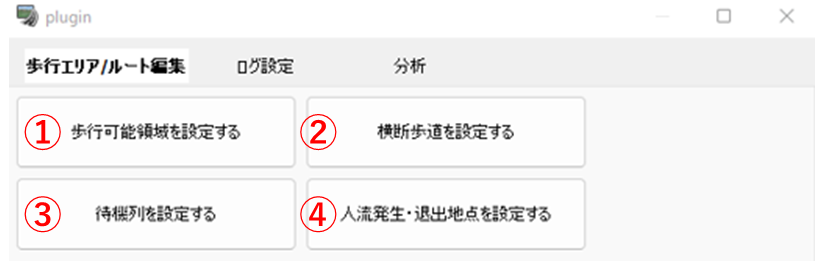
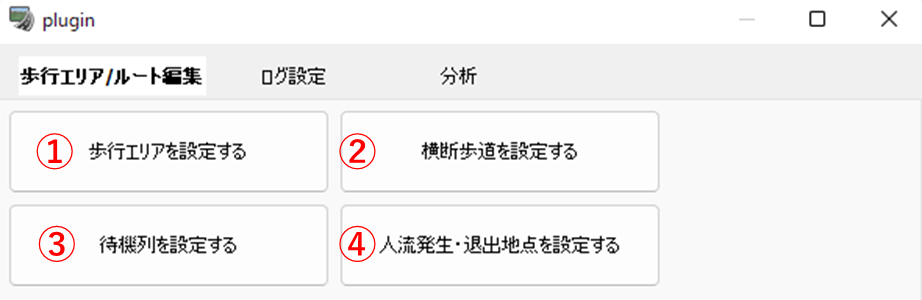
Update Githubpages

diff --git a/manual/userMan.html b/manual/userMan.html
@@ -118,9 +118,9 @@
 <p><img src="../resources/userMan/CrowdSimulator.png" alt=""></p>
 <h2 id="2-3-1-人流シミュレーション設定画面">2-3-1 人流シミュレーション設定画面</h2>
 <p>人流シミュレーションの条件設定を行う画面です。</p>
-<p>① 歩行可能領域を設定する</p>
-<p>シミュレーションでの歩行可能領域に関する設定を行う場合、このボタンをクリックすると<a href="#2-3-2-%E5%9C%B0%E5%9F%9F%E8%A8%AD%E5%AE%9A%E7%94%BB%E9%9D%A2">地域設定画面</a>が表示されます。</p>
-<p>地域設定画面で歩行可能領域を設定していない場合、②～④はクリックできません。</p>
+<p>① 歩行エリアを設定する</p>
+<p>シミュレーションでの歩行エリアに関する設定を行う場合、このボタンをクリックすると<a href="#2-3-2-%E5%9C%B0%E5%9F%9F%E8%A8%AD%E5%AE%9A%E7%94%BB%E9%9D%A2">地域設定画面</a>が表示されます。</p>
+<p>地域設定画面で歩行エリア生成および歩行ネットワーク生成を行っていない場合、②～④はクリックできません。</p>
 <p>② 横断歩道を設定する</p>
 <p>横断歩道に関する設定を行う場合、このボタンをクリックすると<a href="#2-3-3-%E6%A8%AA%E6%96%AD%E6%AD%A9%E9%81%93%E8%A8%AD%E5%AE%9A%E7%94%BB%E9%9D%A2">横断歩道設定画面</a>が表示されます。</p>
 <p>③ 待機列を設定する</p>
@@ -129,7 +129,7 @@
 <p>歩行者に関する設定や人流が発生する地点または退出する地点に関する設定を行う場合、このボタンをクリックすると<a href="#2-3-4-%E4%BA%BA%E6%B5%81%E7%99%BA%E7%94%9F%E9%80%80%E5%87%BA%E5%9C%B0%E7%82%B9%E8%A8%AD%E5%AE%9A%E7%94%BB%E9%9D%A2">人流発生・退出地点設定画面</a>が表示されます。</p>
 <p><img src="../resources/userMan/EditTab.png" alt=""></p>
 <h2 id="2-3-2-地域設定画面">2-3-2 地域設定画面</h2>
-<p>シミュレーションを実施する領域（以下「メッシュ」という。）の生成・編集及びメッシュに基づいて歩行者が通行できる経路（以下「歩行ネットワーク」という。）の生成を行う画面です。</p>
+<p>シミュレーションを実施するエリア（以下「メッシュ」という。）の生成・編集及びメッシュに基づいて歩行者が通行できる経路（以下「歩行ネットワーク」という。）の生成を行う画面です。</p>
 <p>① 表示オプション</p>
 <p>UCwinRoadメイン画面の表示に関する設定を行います。</p>
 <p>② 歩行ネットワークの詳細度</p>
@@ -138,19 +138,19 @@
 <p>クリックすると、メッシュの原点を選択するモードに移行します。この状態でUCwinRoadメイン画面の地形をクリックすると、クリックした地点をメッシュの原点として設定します。</p>
 <p>④ 範囲を選択</p>
 <p>クリックすると、メッシュの範囲を選択するモードに移行します。この状態でUCwinRoadメイン画面の地形をクリックすると、クリックした地点をメッシュの終点として設定します。</p>
-<p>⑤ 歩行可能領域を生成する</p>
-<p>選択した範囲でメッシュを生成する場合、このボタンをクリックするとメッシュを生成します。生成されたメッシュは読み込んだCityGMLの属性（※1）に基づいて、マスごとに歩行可能マスと歩行不可マスを分類します。</p>
+<p>⑤ 歩行エリアを生成する</p>
+<p>選択した範囲でメッシュを生成する場合、このボタンをクリックするとメッシュを生成します。生成されたメッシュは読み込んだCityGMLの属性（※1）に基づいて、マスごとに歩行可能マスと歩行不可マスを分類します。これらのマスの集まりが歩行エリアとして定義されます。</p>
 <p>⑥ 歩行可能に変更する/歩行不可に変更する</p>
 <p>メッシュ生成後に歩行可能マス・歩行不可マスの編集を行う場合、いずれかのボタンが選択されている状態でUCwinRoadメイン画面の地形をクリックすると、クリックした地点のマスを歩行可能マスまたは歩行不可マスとして設定します。</p>
 <p>⑦ 選択サイズ</p>
 <p>クリックした地点を中心とし、表示されている値に基づいた範囲のマスをまとめて編集します。スライダーを動かすことで値を変更することができます。</p>
-<p>⑧ 歩行領域の高さオフセット</p>
+<p>⑧ 歩行エリアの高さオフセット</p>
 <p>入力された値に基づいて、メッシュの標高を変更します。ここで設定したメッシュの標高に基づいて歩行ネットワークが生成されます。</p>
 <p>⑨ 歩行ネットワークを生成する</p>
 <p>歩行ネットワークを生成する場合、このボタンをクリックするとメッシュの歩行可能マスに基づいて歩行ネットワークが生成（※2）されます。</p>
 <p><img src="../resources/userMan/AreaSettings.png" alt=""></p>
-<p>（※1）<a href="https://www.mlit.go.jp/plateaudocument/#toc0_02">3D都市モデル標準製品仕様書 第5版</a>に準拠するCityGMLが対象となります。CityGMLの属性がLOD1の道路（tran:Road）である場合はモデルが指定する全域が、LOD3の道路（tran:Road）である場合はモデルが指定する通行可能な領域（tran:TrafficArea）が歩行可能マスとなります。</p>
-<p>（※2）歩行ネットワークは、歩行者が目指す地点となる「ノード」というオブジェクトと、歩行者が通行できる経路となる「パス」というノード同士を結ぶ線形によって構成されます。なお、歩行ネットワークは、⑤により生成した歩行可能領域のうち歩行可能マスのみをノードとパスで繋いだものになります。</p>
+<p>（※1）<a href="https://www.mlit.go.jp/plateaudocument/#toc0_02">3D都市モデル標準製品仕様書 第5版</a>に準拠するCityGMLが対象となります。CityGMLの属性がLOD1の道路（tran:Road）である場合はモデルが指定する全域が、LOD3の道路（tran:Road）である場合はモデルが指定する通行可能な箇所（tran:TrafficArea）が歩行可能マスとなります。</p>
+<p>（※2）歩行ネットワークは、歩行者が目指す地点となる「ノード」というオブジェクトと、歩行者が通行できる経路となる「パス」というノード同士を結ぶ線形によって構成されます。なお、歩行ネットワークは、⑤により生成した歩行エリアのうち歩行可能マスのみをノードとパスで繋いだものになります。</p>
 <p><img src="../resources/userMan/PedestrianNetwork.png" alt=""></p>
 <h2 id="2-3-3-横断歩道設定画面">2-3-3 横断歩道設定画面</h2>
 <p>生成された歩行ネットワークについて、横断歩道に関する設定を行う画面です。</p>

diff --git a/index.html b/index.html
@@ -79,7 +79,7 @@
             <article class="content wrap" id="_content" data-uid="">
 <h1 id="輸送計画検討に向けた人流シミュレーションプラグインuc-winroadプラグイン">輸送計画検討に向けた人流シミュレーションプラグイン（UC-win/Roadプラグイン）</h1>
 
-<p>本システムは、3D都市モデルを活用した、大規模イベント等の輸送計画策定を支援する公共交通機関の運行ダイヤ、バス停の待機列を考慮した人流シミュレータです。</p>
+<p>本システムは、3D都市モデルを活用し、大規模イベント時の輸送計画策定を支援する人流シミュレータです。公共交通機関の運行ダイヤやバス停の待機列を考慮した分析が可能です。</p>
 <p><img src="resources/CrowdSimulatorPlugin.png" alt=""></p>
 
 </article>

diff --git a/markdown/manual/userMan.md b/markdown/manual/userMan.md
@@ -78,11 +78,11 @@ CityGML読み込み後にUCwinRoadメイン画面の「CrowdSim」タブ>>「Cro
 
 人流シミュレーションの条件設定を行う画面です。
 
-① 歩行可能領域を設定する
+① 歩行エリアを設定する
 
-シミュレーションでの歩行可能領域に関する設定を行う場合、このボタンをクリックすると[地域設定画面](#2-3-2-地域設定画面)が表示されます。
+シミュレーションでの歩行エリアに関する設定を行う場合、このボタンをクリックすると[地域設定画面](#2-3-2-地域設定画面)が表示されます。
 
-地域設定画面で歩行可能領域を設定していない場合、②～④はクリックできません。
+地域設定画面で歩行エリア生成および歩行ネットワーク生成を行っていない場合、②～④はクリックできません。
 
 ② 横断歩道を設定する
 
@@ -100,7 +100,7 @@ CityGML読み込み後にUCwinRoadメイン画面の「CrowdSim」タブ>>「Cro
 
 ## 2-3-2 地域設定画面
 
-シミュレーションを実施する領域（以下「メッシュ」という。）の生成・編集及びメッシュに基づいて歩行者が通行できる経路（以下「歩行ネットワーク」という。）の生成を行う画面です。
+シミュレーションを実施するエリア（以下「メッシュ」という。）の生成・編集及びメッシュに基づいて歩行者が通行できる経路（以下「歩行ネットワーク」という。）の生成を行う画面です。
 
 ① 表示オプション
 
@@ -118,9 +118,9 @@ UCwinRoadメイン画面の表示に関する設定を行います。
 
 クリックすると、メッシュの範囲を選択するモードに移行します。この状態でUCwinRoadメイン画面の地形をクリックすると、クリックした地点をメッシュの終点として設定します。
 
-⑤ 歩行可能領域を生成する
+⑤ 歩行エリアを生成する
 
-選択した範囲でメッシュを生成する場合、このボタンをクリックするとメッシュを生成します。生成されたメッシュは読み込んだCityGMLの属性（※1）に基づいて、マスごとに歩行可能マスと歩行不可マスを分類します。
+選択した範囲でメッシュを生成する場合、このボタンをクリックするとメッシュを生成します。生成されたメッシュは読み込んだCityGMLの属性（※1）に基づいて、マスごとに歩行可能マスと歩行不可マスを分類します。これらのマスの集まりが歩行エリアとして定義されます。
 
 ⑥ 歩行可能に変更する/歩行不可に変更する
 
@@ -130,7 +130,7 @@ UCwinRoadメイン画面の表示に関する設定を行います。
 
 クリックした地点を中心とし、表示されている値に基づいた範囲のマスをまとめて編集します。スライダーを動かすことで値を変更することができます。
 
-⑧ 歩行領域の高さオフセット
+⑧ 歩行エリアの高さオフセット
 
 入力された値に基づいて、メッシュの標高を変更します。ここで設定したメッシュの標高に基づいて歩行ネットワークが生成されます。
 
@@ -140,9 +140,9 @@ UCwinRoadメイン画面の表示に関する設定を行います。
 
 ![](../resources/userMan/AreaSettings.png)
 
-（※1）[3D都市モデル標準製品仕様書 第5版](https://www.mlit.go.jp/plateaudocument/#toc0_02)に準拠するCityGMLが対象となります。CityGMLの属性がLOD1の道路（tran:Road）である場合はモデルが指定する全域が、LOD3の道路（tran:Road）である場合はモデルが指定する通行可能な領域（tran:TrafficArea）が歩行可能マスとなります。
+（※1）[3D都市モデル標準製品仕様書 第5版](https://www.mlit.go.jp/plateaudocument/#toc0_02)に準拠するCityGMLが対象となります。CityGMLの属性がLOD1の道路（tran:Road）である場合はモデルが指定する全域が、LOD3の道路（tran:Road）である場合はモデルが指定する通行可能な箇所（tran:TrafficArea）が歩行可能マスとなります。
 
-（※2）歩行ネットワークは、歩行者が目指す地点となる「ノード」というオブジェクトと、歩行者が通行できる経路となる「パス」というノード同士を結ぶ線形によって構成されます。なお、歩行ネットワークは、⑤により生成した歩行可能領域のうち歩行可能マスのみをノードとパスで繋いだものになります。
+（※2）歩行ネットワークは、歩行者が目指す地点となる「ノード」というオブジェクトと、歩行者が通行できる経路となる「パス」というノード同士を結ぶ線形によって構成されます。なお、歩行ネットワークは、⑤により生成した歩行エリアのうち歩行可能マスのみをノードとパスで繋いだものになります。
 
 ![](../resources/userMan/PedestrianNetwork.png)
 

diff --git a/markdown/index.md b/markdown/index.md
@@ -1,5 +1,5 @@
 # 輸送計画検討に向けた人流シミュレーションプラグイン（UC-win/Roadプラグイン）
 
-本システムは、3D都市モデルを活用した、大規模イベント等の輸送計画策定を支援する公共交通機関の運行ダイヤ、バス停の待機列を考慮した人流シミュレータです。
+本システムは、3D都市モデルを活用し、大規模イベント時の輸送計画策定を支援する人流シミュレータです。公共交通機関の運行ダイヤやバス停の待機列を考慮した分析が可能です。
 
 ![](resources/CrowdSimulatorPlugin.png)

diff --git a/index.md b/index.md
@@ -1,0 +1,11 @@
+---
+_layout: landing
+---
+
+# This is the **HOMEPAGE**.
+
+Refer to [Markdown](http://daringfireball.net/projects/markdown/) for how to write markdown files.
+
+## Quick Start Notes:
+
+1. Add images to the *images* folder if the file is referencing an image.
